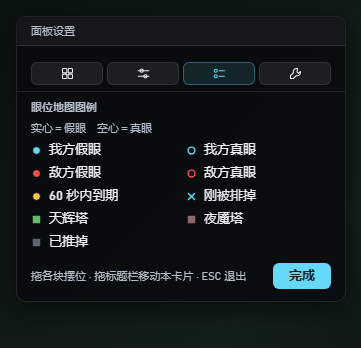
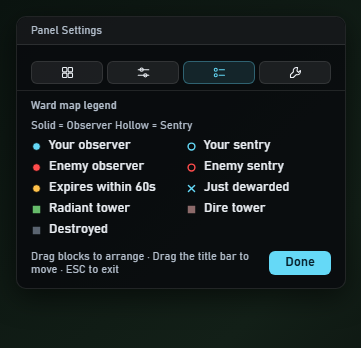
docs: 卡片截图出中英两套，各自的 README 用各自的
英文 README 配着中文截图——而 README.md 是 GitHub 的默认入口，
等于让英文读者看一张看不懂的图。

**卡片是界面上唯一有文字的地方**（覆盖层本身一个字都没有），所以也只有它需要
出两套：card-*.png 英文给 README.md，card-*-zh.png 中文给 README.zh-CN.md。
另外五张（整体 + 四个块）与语言无关，不重复。

英文那套用不带后缀的名字，因为英文是默认入口。

## 程序自己的默认语言不用改

lang.rs 的 system_default() 本来就跟随系统——非中文系统给英文，中文系统给中文，
设计文档里也写着"默认给陌生人一个看不懂的界面没道理"。改成永远英文反而会让
中文用户拿到看不懂的界面，那是倒退。

所以这次只动截图，不动程序行为。

## 做法

make_shots.py 的卡片条目加一个 lang 字段，截图页按 ?lang= 写进 localStorage。
截图本来就是脚本生成的，多一套的维护成本接近零——改完界面 `python
tools/make_shots.py` 重跑一次，十三张一起更新。

diff --git a/tools/make_shots.py b/tools/make_shots.py
@@ -48,9 +48,18 @@ def _block_shot(name, clock):
     return dict(block=name, clock=clock, w=w + MARGIN * 2, h=h + MARGIN * 2)
 
 
-def _card_shot(tab, clock=120):
-    return dict(block="card", clock=clock, w=CARD_W + MARGIN * 2, h=CARD_H + MARGIN * 2, tab=tab)
+def _card_shot(tab, lang, clock=120):
+    # 英文卡片比中文略矮（实测 310 vs 316），统一按中文那档给，多出来的是背景
+    return dict(block="card", clock=clock, w=CARD_W + MARGIN * 2, h=CARD_H + MARGIN * 2,
+                tab=tab, lang=lang)
 
+
+# **卡片是界面上唯一有文字的地方**，所以只有它需要出两套：
+# `card-*.png` 英文给 README.md，`card-*-zh.png` 中文给 README.zh-CN.md。
+# 另外五张（整体 + 四个块）一个字都没有，与语言无关，不必重复。
+#
+# 英文那套用不带后缀的名字，因为 README.md 是 GitHub 的默认入口。
+CARD_TABS = ["show", "panel", "legend", "dev"]
 
 SHOTS = {
     "overlay":       dict(block="panel", clock=451, w=620, h=330),
@@ -58,11 +67,10 @@ SHOTS = {
     "block-enemy":   _block_shot("enemy", 451),
     "block-econ":    _block_shot("econ", 451),
     "block-wardmap": _block_shot("wardmap", 451),
-    "card-show":     _card_shot("show"),
-    "card-panel":    _card_shot("panel"),
-    "card-legend":   _card_shot("legend"),
-    "card-dev":      _card_shot("dev"),
 }
+for _tab in CARD_TABS:
+    SHOTS[f"card-{_tab}"] = _card_shot(_tab, "en")
+    SHOTS[f"card-{_tab}-zh"] = _card_shot(_tab, "zh-CN")
 
 SHOT_HTML = """<!doctype html>
 <meta charset="utf-8"><title>shot</title>
@@ -95,7 +103,8 @@ SHOT_HTML = """<!doctype html>
   localStorage.setItem("layout", JSON.stringify(layout));
   // 设置也钉死，免得图随环境变
   localStorage.setItem("settings", JSON.stringify({
-    scale: 1, opacity: 1, panelBg: 0.72, wardSize: 180, lang: "zh-CN",
+    scale: 1, opacity: 1, panelBg: 0.72, wardSize: 180,
+    lang: qs.get("lang") || "en",
   }));
   window.HELPER2_DEMO = "demo.jsonl";
 </script>
@@ -266,6 +275,7 @@ def main():
         httpd = serve(work)
         try:
             q = f"?block={spec['block']}" + (f"&tab={spec['tab']}" if spec.get("tab") else "")
+            q += f"&lang={spec['lang']}" if spec.get("lang") else ""
             # 极高倍速 + 不循环：几百毫秒内播完，页面停在最后一包
             q += "&speed=10000&loop=0"
             dest = OUT / f"{name}.png"
